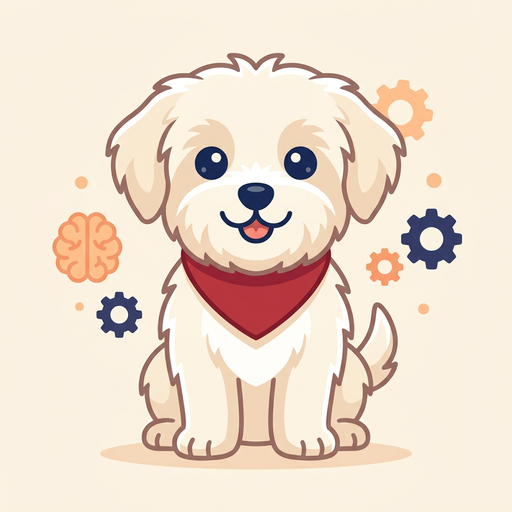
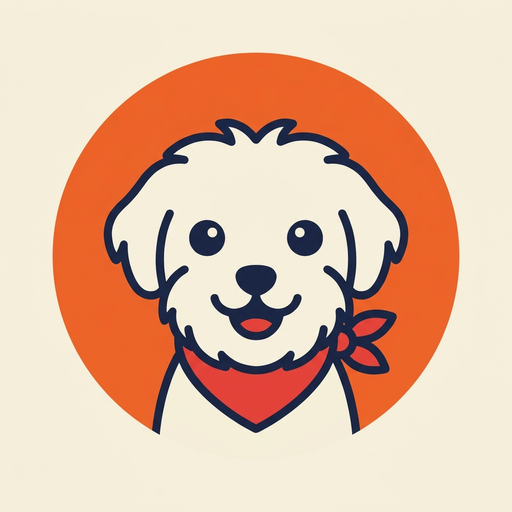
feat: 그래픽 대개편 — 로고+말티즈 통합·PWA 아이콘·뇌나이 일러스트·게임 오브젝트 일러스트 (전부 Higgsfield)
- 통합 로고: BRAIN WALK 워드마크의 K에 말티즈가 기대는 구도 + 발도장 산포
  홈의 별도 마스코트 이미지 제거, 로고가 마스코트 겸임 (id=mascot 유지 → 멍멍 이스터에그·점프 그대로)
- PWA 앱 아이콘 교체: 말티즈 얼굴 + 오렌지 원 배지 (192/512, 홈 화면 추가 시 반영)
- 뇌나이 결과 일러스트 4단계: ~32세 로켓 질주 / ~45세 파워워킹 / ~62세 지팡이 산책 / 63세~ 차 한 잔 여유
- 짝 맞추기 카드 앞면·어느 쪽 오브젝트: 이모지 → 전용 일러스트 12종 (스타일 통일 시트 1생성 분할)
- 시뮬 하네스 pairs 솔버 이미지 카드 대응 (data-e 식별)
- 테마 상점 스와치 미니 버튼형 확대
- 캐시 버스팅 v35, logo.png ?v=2

diff --git a/index.html b/index.html
@@ -9,7 +9,7 @@
 <meta name="theme-color" content="#151515" media="(prefers-color-scheme: dark)">
 <link rel="manifest" href="manifest.json">
 <link rel="apple-touch-icon" href="assets/icon-192.png">
-<link rel="stylesheet" href="style.css?v=34">
+<link rel="stylesheet" href="style.css?v=35">
 </head>
 <body>
 
@@ -17,8 +17,7 @@
 <section id="screen-home" class="screen active">
   <header class="home-head">
     <img class="brand-logo" src="assets/aia-logo.png" alt="AIA" onerror="this.style.display='none'">
-    <img id="mascot" src="assets/mascot.png?v=34" alt="브레인워크 마스코트" onerror="this.style.display='none'">
-    <h1 class="logo-h1"><img class="logo-img" src="assets/logo.png" alt="브레인워크 Brain Walk" onerror="this.outerHTML='브레인워크'"></h1>
+    <h1 class="logo-h1"><img class="logo-img" id="mascot" src="assets/logo.png?v=2" alt="브레인워크 Brain Walk" onerror="this.outerHTML='브레인워크'"></h1>
     <p class="tagline">하루 3분, 오늘도 가볍게 한 바퀴 🐾</p>
     <p id="home-date"></p>
     <p id="home-streak" class="streak"></p>
@@ -123,7 +122,7 @@
   <p id="result-comment"></p>
   <div id="result-detail"></div>
   <div class="coach">
-    <img src="assets/mascot.png?v=34" class="coach-img" alt="코치">
+    <img src="assets/mascot.png?v=35" class="coach-img" alt="코치">
     <div class="speech" id="coach-bubble"></div>
   </div>
   <button class="big-btn primary" id="btn-next"></button>
@@ -148,18 +147,18 @@
   <button class="big-btn ghost" data-goto="home">← 돌아가기</button>
 </section>
 
-<script src="games/sound.js?v=34"></script>
-<script src="games/cloud.js?v=34"></script>
-<script src="games/juice.js?v=34"></script>
-<script src="games/ink.js?v=34"></script>
-<script src="games/calc.js?v=34"></script>
-<script src="games/memory.js?v=34"></script>
-<script src="games/stroop.js?v=34"></script>
-<script src="games/trail.js?v=34"></script>
-<script src="games/pack-speed.js?v=34"></script>
-<script src="games/pack-memory.js?v=34"></script>
-<script src="games/sudoku.js?v=34"></script>
-<script src="games/pack-extra.js?v=34"></script>
-<script src="app.js?v=34"></script>
+<script src="games/sound.js?v=35"></script>
+<script src="games/cloud.js?v=35"></script>
+<script src="games/juice.js?v=35"></script>
+<script src="games/ink.js?v=35"></script>
+<script src="games/calc.js?v=35"></script>
+<script src="games/memory.js?v=35"></script>
+<script src="games/stroop.js?v=35"></script>
+<script src="games/trail.js?v=35"></script>
+<script src="games/pack-speed.js?v=35"></script>
+<script src="games/pack-memory.js?v=35"></script>
+<script src="games/sudoku.js?v=35"></script>
+<script src="games/pack-extra.js?v=35"></script>
+<script src="app.js?v=35"></script>
 </body>
 </html>

diff --git a/games/pack-extra.js b/games/pack-extra.js
@@ -65,7 +65,7 @@
     id: "pairs", name: "짝 맞추기", icon: "🃏", mode: "count",
     intro: "카드를 뒤집어\n같은 그림 짝을 찾으세요.",
     start(area, level, api) {
-      const EMO = ["🍎", "🍌", "🍇", "🍓", "🥕", "🌽", "🐟", "🍞", "☂️", "🧦", "🌻", "🐕"];
+      const EMO = ["o1","o2","o3","o4","o5","o6","o7","o8","o9","o10","o11","o12"]; // assets/emo 일러스트
       const PAIRS = level <= 3 ? 6 : 8; // 4×3 또는 4×4
       const cards = U.shuffle(U.shuffle(EMO).slice(0, PAIRS).flatMap(e => [e, e]));
       let open = null, lock = false, matched = 0, flips = 0;
@@ -86,7 +86,7 @@
         b.onclick = () => {
           if (lock || b.classList.contains("open") || b.classList.contains("done")) return;
           flips++;
-          b.textContent = emo; b.classList.add("open");
+          b.innerHTML = `<img src="assets/emo/${emo}.png" alt="" data-e="${emo}">`; b.classList.add("open");
           if (!open) { open = { b, emo }; upd(); return; }
           if (open.emo === emo) {
             open.b.classList.add("done"); b.classList.add("done");
@@ -133,7 +133,7 @@
         </div>`;
       const fb = area.querySelector("#cp-fb");
       const L = area.querySelector("#cp-l"), R = area.querySelector("#cp-r");
-      const EMO = ["🍎", "🐤", "⭐", "🎈", "🐟", "🌸"];
+      const EMO = ["o1", "o4", "o5", "o7", "o11", "o12"]; // assets/emo 일러스트
       let more = null; // "L" | "R"
 
       function next() {
@@ -145,8 +145,9 @@
         const b = a + diff * (Math.random() < 0.5 ? 1 : -1);
         const emo = EMO[U.rand(0, EMO.length - 1)];
         more = a > b ? "L" : "R";
-        L.innerHTML = Array(a).fill(`<span>${emo}</span>`).join("");
-        R.innerHTML = Array(Math.max(1, b)).fill(`<span>${emo}</span>`).join("");
+        const tag = `<span><img src="assets/emo/${emo}.png" alt=""></span>`;
+        L.innerHTML = Array(a).fill(tag).join("");
+        R.innerHTML = Array(Math.max(1, b)).fill(tag).join("");
       }
       const pick = side => {
         const good = side === more;

diff --git a/style.css b/style.css
@@ -112,13 +112,13 @@ a:hover { text-decoration: underline; }
 
 h1 { font-size: 38px; font-weight: var(--fw-bold); line-height: var(--lh-display); }
 .logo-h1 { line-height: 0; }
-.logo-img { width: 250px; max-width: 78vw; height: auto; }
+.logo-img { width: 300px; max-width: 84vw; height: auto; }
 h2 { font-size: 28px; font-weight: var(--fw-bold); line-height: var(--lh-heading); }
 
 /* ---------- 홈 ---------- */
 .home-head { text-align: center; margin-top: var(--sp-2); display: flex; flex-direction: column; align-items: center; gap: var(--sp-2); }
 .brand-logo { height: 28px; width: auto; margin-bottom: var(--sp-3); }
-#mascot { width: 148px; height: 148px; object-fit: contain; cursor: pointer; }
+#mascot { cursor: pointer; } /* 로고 겸 마스코트 — 크기는 .logo-img가 결정 */
 .mascot-jump { animation: mascotJump 0.5s cubic-bezier(0.3, 1.8, 0.5, 1); }
 @keyframes mascotJump {
   0% { transform: translateY(0); }
@@ -326,6 +326,9 @@ h2 { font-size: 28px; font-weight: var(--fw-bold); line-height: var(--lh-heading
 @media (hover: hover) { .choice-btn:hover { border-color: var(--charcoal-700); box-shadow: var(--shadow-2); } }
 .choice-btn:active { transform: scale(0.98); box-shadow: var(--shadow-0); }
 
+/* 뇌나이 결과 일러스트 */
+.age-img { display: block; width: 150px; height: auto; margin: 0 auto var(--sp-2); background: var(--icon-chip); border-radius: var(--radius-xl); padding: 8px; }
+
 /* 짝 맞추기 카드 */
 .pairs-grid { display: grid; gap: var(--sp-2); width: 100%; max-width: 420px; }
 .pcard {
@@ -335,6 +338,7 @@ h2 { font-size: 28px; font-weight: var(--fw-bold); line-height: var(--lh-heading
   transition: transform var(--t), background var(--t);
 }
 .pcard.open { background: var(--surface); transform: scale(1.05); }
+.pcard img { width: 74%; height: 74%; object-fit: contain; }
 .pcard.done { background: var(--salmon-50); border-color: var(--aia-red); cursor: default; }
 
 /* 어느 쪽이 많을까 */
@@ -346,6 +350,7 @@ h2 { font-size: 28px; font-weight: var(--fw-bold); line-height: var(--lh-heading
   background: var(--surface); box-shadow: var(--shadow-1); font-size: 26px;
 }
 .cmp-box:active { transform: scale(0.98); }
+.cmp-box span img { width: 28px; height: 28px; vertical-align: middle; }
 
 /* 부호 찾기: 연산 기호 크고 굵게 (가독) */
 .sign-choices .choice-btn { font-size: 48px; font-weight: 800; color: var(--aia-red); }
@@ -392,7 +397,7 @@ h2 { font-size: 28px; font-weight: var(--fw-bold); line-height: var(--lh-heading
 #shop-list { margin-top: var(--sp-2); padding: var(--sp-3); border: 1px solid var(--border-hairline); border-radius: var(--radius-lg); background: var(--surface); }
 .shop-row { display: flex; align-items: center; gap: var(--sp-3); padding: var(--sp-2) 0; }
 .shop-name { flex: 1; font-weight: var(--fw-semibold); }
-.swatch { width: 22px; height: 22px; border-radius: 50%; border: 1px solid var(--border-hairline); flex-shrink: 0; }
+.swatch { width: 40px; height: 24px; border-radius: 8px; border: 1px solid var(--border-hairline); flex-shrink: 0; box-shadow: var(--shadow-1); } /* 미니 버튼 프리뷰 */
 .shop-on { color: var(--aia-red); font-size: 15px; }
 .shop-locked { color: var(--fg-tertiary); font-size: 15px; }
 

diff --git a/sim/autoplay.js b/sim/autoplay.js
@@ -169,14 +169,15 @@
       (l > r ? $("#cp-l") : $("#cp-r")).click();
       return;
     }
-    // 짝 맞추기: 본 카드 기억 → 아는 짝 우선, 없으면 새 카드
+    // 짝 맞추기: 본 카드 기억 → 아는 짝 우선, 없으면 새 카드 (앞면=이미지)
     const pcards = $$(".pcard");
+    const pface = c => { const im = c.querySelector("img"); return im ? im.dataset.e || im.src : (c.textContent !== "🐾" ? c.textContent : null); };
     if (pcards.length) {
       if ($$(".pcard.open").length >= 2) return; // 미스매치 복귀 대기
-      pcards.forEach((c, i) => { if (c.textContent !== "🐾" && !c.classList.contains("done")) S.prSeen[i] = c.textContent; });
+      pcards.forEach((c, i) => { const f = pface(c); if (f && !c.classList.contains("done")) S.prSeen[i] = f; });
       const openIdx = pcards.findIndex(c => c.classList.contains("open"));
       if (openIdx >= 0) {
-        const emo = pcards[openIdx].textContent;
+        const emo = pface(pcards[openIdx]);
         const mate = Object.entries(S.prSeen).find(([i, e]) => +i !== openIdx && e === emo && !pcards[+i].classList.contains("done"));
         if (mate) { pcards[+mate[0]].click(); return; }
         const fresh = pcards.findIndex((c, i) => c.textContent === "🐾" && S.prSeen[i] == null);

diff --git a/app.js b/app.js
@@ -635,7 +635,9 @@
             : age < prev ? `지난번 ${prev}세보다 젊어졌어요!`
               : age > prev ? `지난번 ${prev}세보다 살짝 높네요. 컨디션 탓일 거예요.`
                 : "지난번과 같아요. 안정적!";
+      const tier = age <= 32 ? 1 : age <= 45 ? 2 : age <= 62 ? 3 : 4; // 로켓/파워워킹/산책/여유
       $("#result-detail").innerHTML =
+        `<img class="age-img" src="assets/age${tier}.png" alt="" onerror="this.remove()">` +
         session.queue.map(g => `${icon(g)} ${g.name}: ${session.results[g.id]}점`).join("<br>") +
         `<br><span class="disclaimer">놀이용 추정치예요. 의료 검사가 아닙니다.</span>`;
       $("#coach-bubble").textContent =